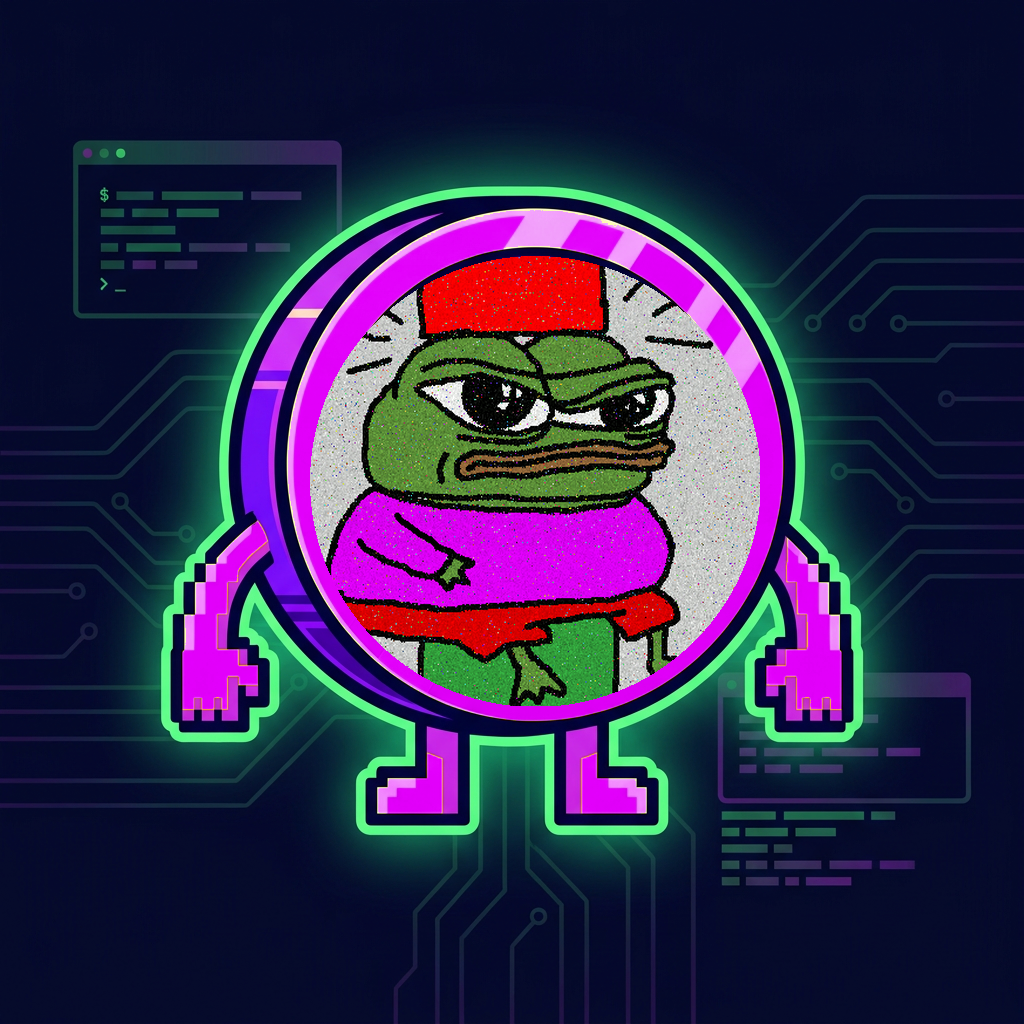
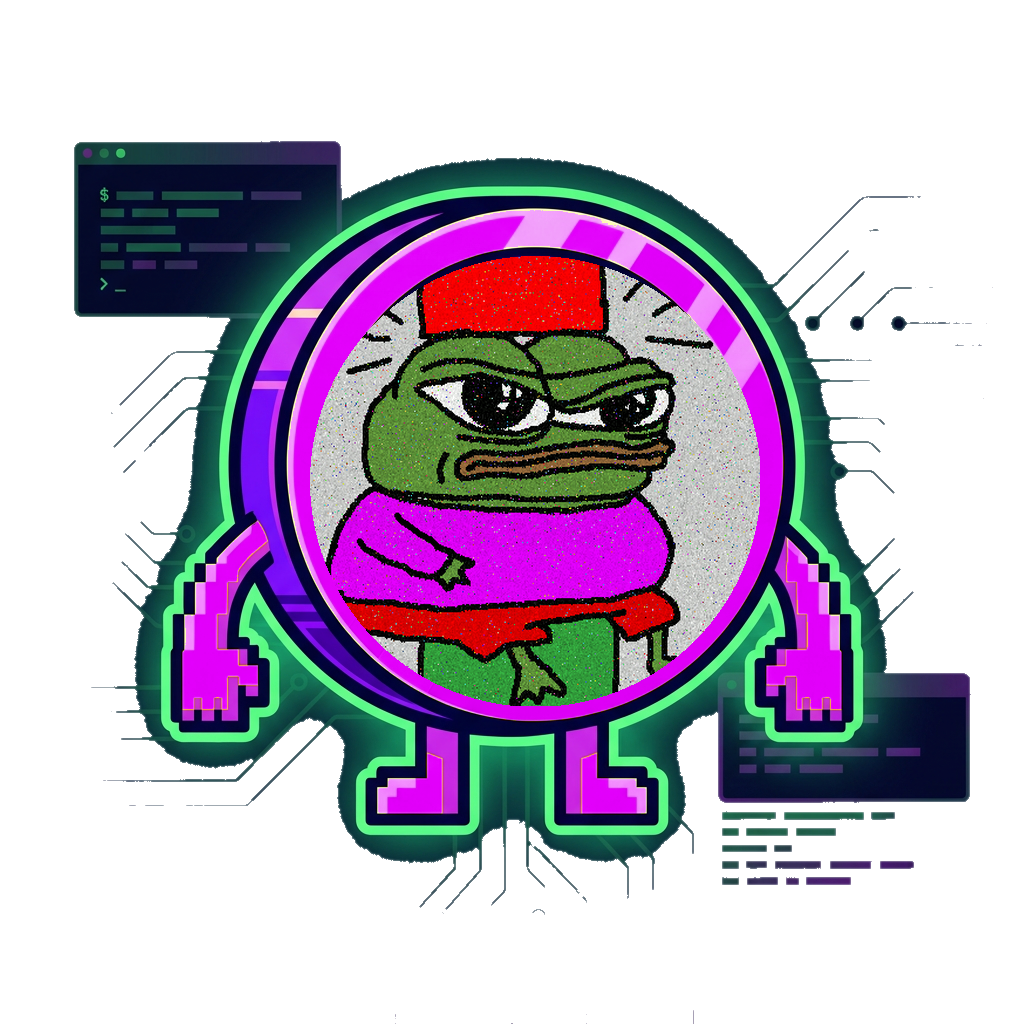
assets: transparent-background sprites + updated scripts

diff --git a/assets/scripts/make_transparent.py b/assets/scripts/make_transparent.py
@@ -1,0 +1,97 @@
+#!/usr/bin/env python3
+"""Strip the baked navy circuit-board background from coin sprites, making
+it transparent so sprites composite cleanly onto any room background.
+
+Method: flood fill from the four image corners over pixels within a
+color-distance threshold of the sampled corner color (the navy background,
+including its faint circuit traces). Filled pixels get alpha=0. A second,
+tighter-threshold pass mops up navy halo pixels adjacent to the already-
+transparent region (antialiased edge remnants) without eating into the
+character's neon glow or the coin outline. A 1px alpha blur feathers the
+cut edge.
+
+Usage: make_transparent.py <in.png> <out.png> [--threshold N] [--tight N]
+"""
+
+import argparse
+import sys
+from collections import deque
+from pathlib import Path
+
+import numpy as np
+from PIL import Image, ImageFilter
+
+
+def flood_fill_mask(arr: np.ndarray, threshold: float) -> np.ndarray:
+    """BFS flood fill from the four corners over pixels close in RGB
+    distance to their seed corner's color. Returns a bool mask of pixels
+    to make transparent."""
+    h, w, _ = arr.shape
+    visited = np.zeros((h, w), dtype=bool)
+    rgb = arr[:, :, :3].astype(np.int32)
+
+    corners = [(0, 0), (0, w - 1), (h - 1, 0), (h - 1, w - 1)]
+    q = deque()
+    for cy, cx in corners:
+        if not visited[cy, cx]:
+            visited[cy, cx] = True
+            q.append((cy, cx, rgb[cy, cx]))
+
+    thr2 = threshold * threshold
+    while q:
+        y, x, seed = q.popleft()
+        for dy, dx in ((1, 0), (-1, 0), (0, 1), (0, -1)):
+            ny, nx = y + dy, x + dx
+            if 0 <= ny < h and 0 <= nx < w and not visited[ny, nx]:
+                d = rgb[ny, nx] - seed
+                if int(d @ d) <= thr2:
+                    visited[ny, nx] = True
+                    q.append((ny, nx, seed))
+    return visited
+
+
+def process(src: Path, dst: Path, threshold: float, tight: float) -> None:
+    im = Image.open(src).convert("RGBA")
+    arr = np.array(im)
+
+    mask = flood_fill_mask(arr, threshold)
+
+    # Second pass: tighter threshold, seeded from pixels bordering the
+    # already-removed region, to mop up faint navy fringe the first pass's
+    # threshold left opaque (without touching the character/glow interior).
+    h, w, _ = arr.shape
+    rgb = arr[:, :, :3].astype(np.int32)
+    border_seed = np.array([5, 10, 43])
+    thr2 = tight * tight
+    close_to_navy = ((rgb - border_seed) ** 2).sum(axis=2) <= thr2
+    # Dilate mask by 1px to find fringe candidates adjacent to removed area.
+    grown = mask.copy()
+    grown[1:, :] |= mask[:-1, :]
+    grown[:-1, :] |= mask[1:, :]
+    grown[:, 1:] |= mask[:, :-1]
+    grown[:, :-1] |= mask[:, 1:]
+    fringe = grown & ~mask & close_to_navy
+    mask |= fringe
+
+    alpha = arr[:, :, 3].copy()
+    alpha[mask] = 0
+    alpha_img = Image.fromarray(alpha, mode="L").filter(ImageFilter.GaussianBlur(1))
+    alpha_final = np.minimum(alpha, np.array(alpha_img))
+
+    out = arr.copy()
+    out[:, :, 3] = alpha_final
+    Image.fromarray(out, mode="RGBA").save(dst)
+
+
+def main() -> None:
+    p = argparse.ArgumentParser()
+    p.add_argument("src", type=Path)
+    p.add_argument("dst", type=Path)
+    p.add_argument("--threshold", type=float, default=40)
+    p.add_argument("--tight", type=float, default=70)
+    args = p.parse_args()
+    process(args.src, args.dst, args.threshold, args.tight)
+
+
+if __name__ == "__main__":
+    main()
